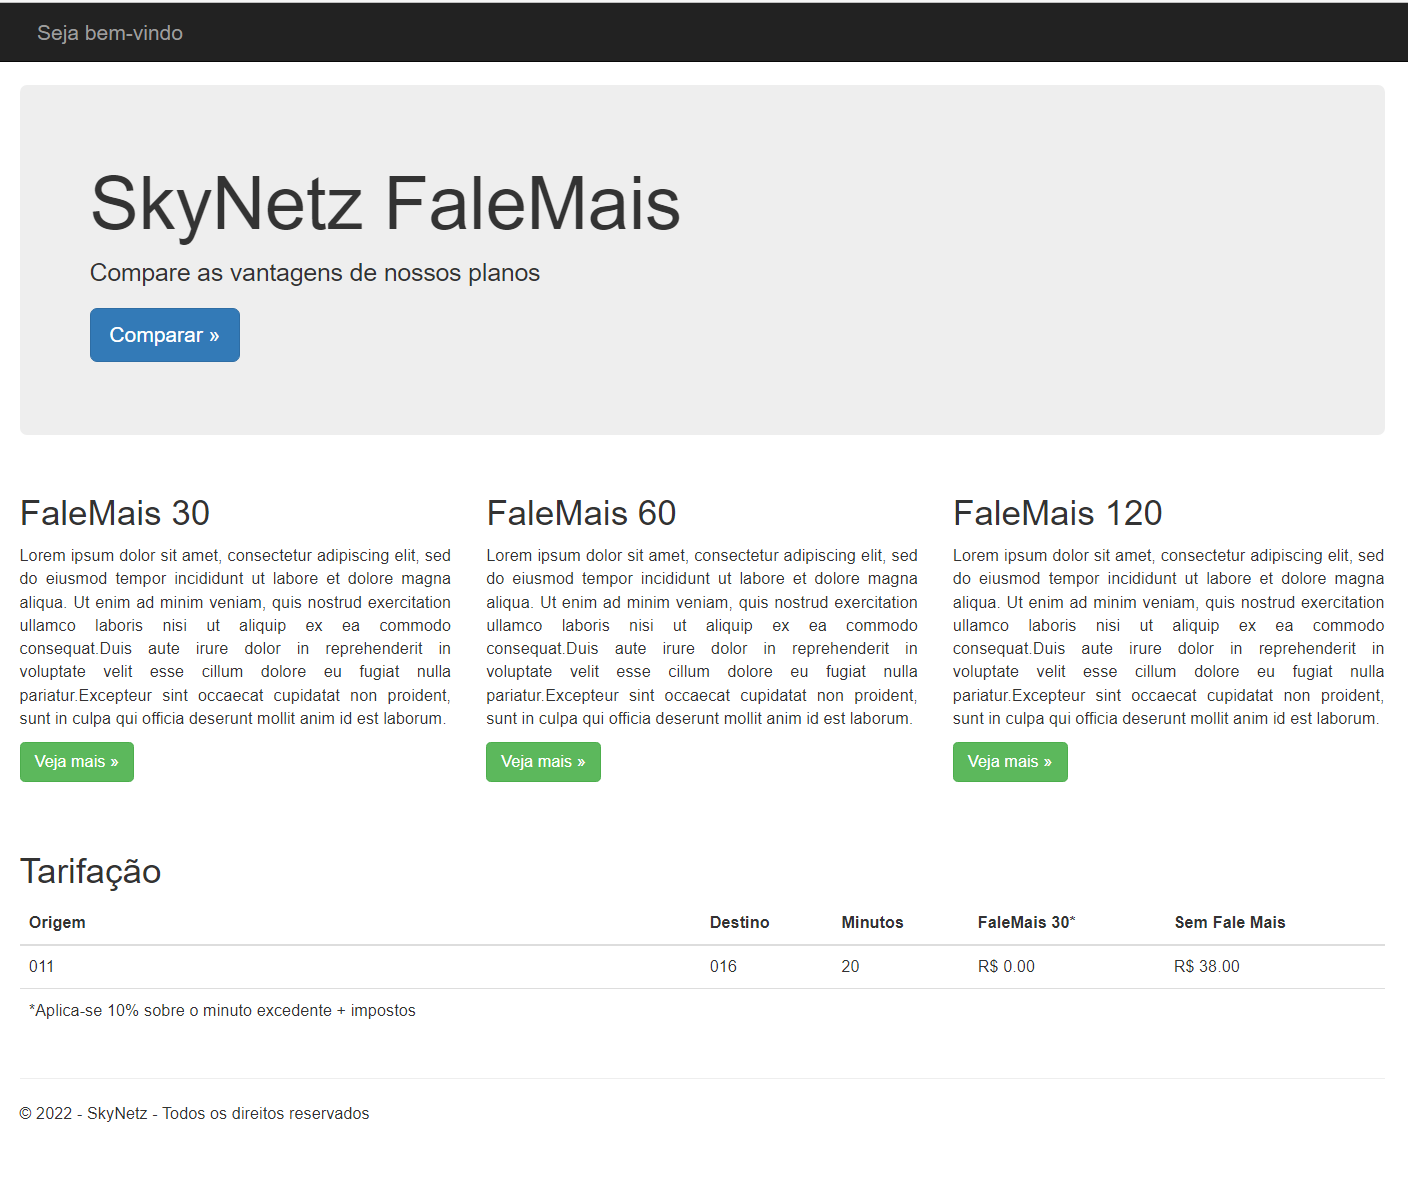
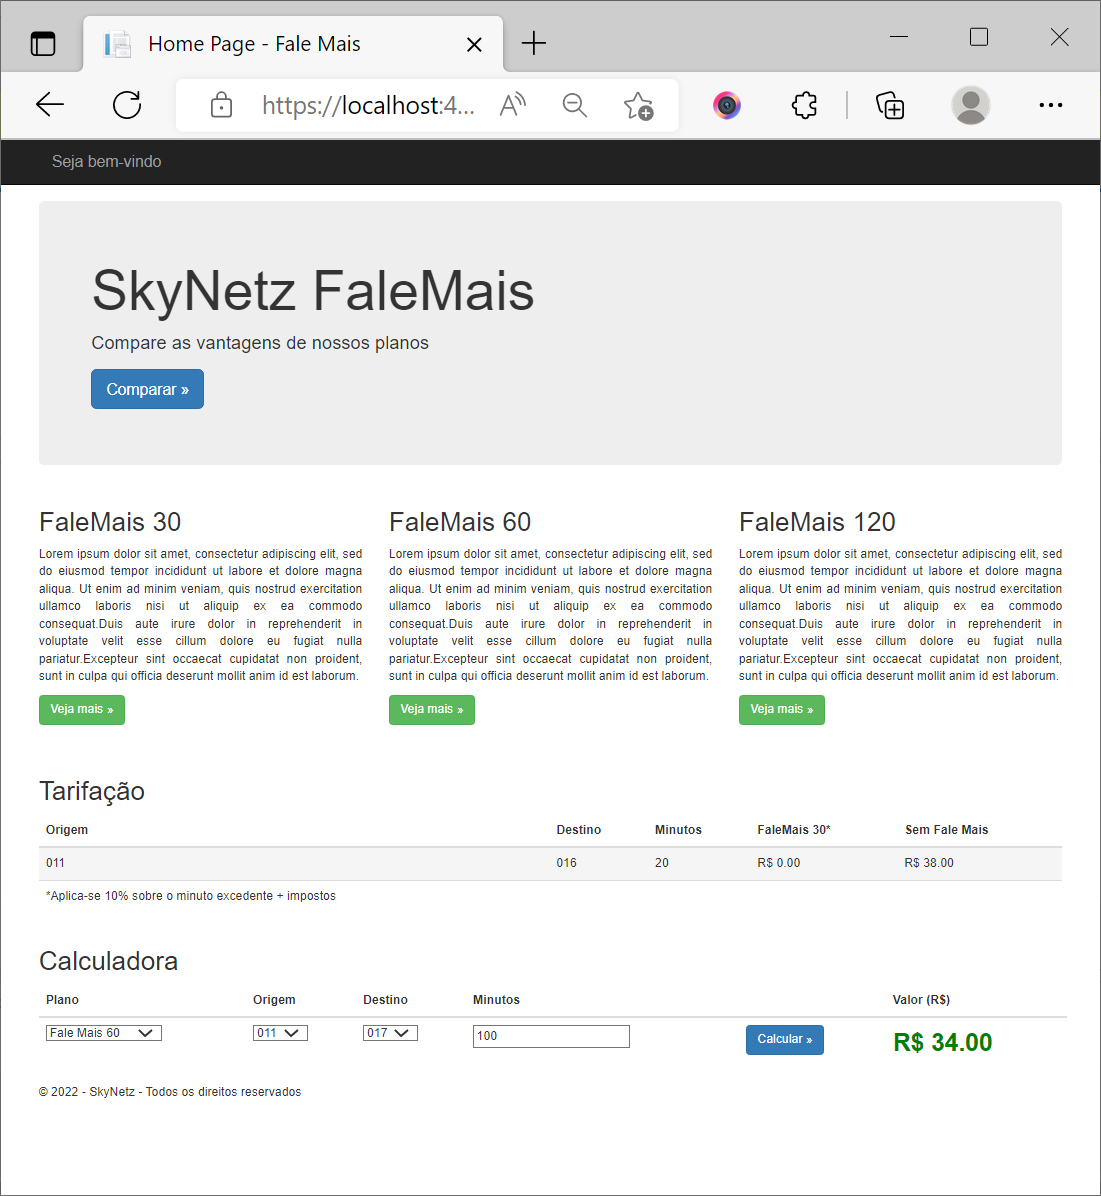
Calculadora

diff --git a/SkyNetz.FaleMais.API/Controllers/FaresController.cs b/SkyNetz.FaleMais.API/Controllers/FaresController.cs
@@ -10,25 +10,51 @@ using System.Threading.Tasks;
 using System.Web.Http;
 using System.Web.Http.Cors;
 using System.Web.Http.Description;
+using Newtonsoft.Json.Linq;
 using SkyNetz.FaleMais.DataAccess;
 
 namespace SkyNetz.FaleMais.API.Controllers
 {
-    [EnableCors(origins: "*", headers: "*", methods: "*")]
     public class FaresController : Base
     {
         [HttpPost]
-        public async Task<IHttpActionResult> Get(int id)
+        [Route("api/fares/list")]
+        public async Task<IHttpActionResult> Get([FromBody]string id)
         {
-            Fares fares = await db.Fares.FindAsync(id);
-            if (fares == null)
+            int planId = int.Parse(id);
+            Fares fare = await db.Fares.Where(f => f.PlanId == planId).FirstOrDefaultAsync();
+            if (fare == null)
             {
                 return NotFound();
             }
 
-            return Json(fares);
+            return Json(fare);
         }
 
+        [HttpPost]
+        [Route("api/fares/calc")]
+        public IHttpActionResult Calc([FromBody]string data)
+        {
+            var ayParams = data.Split('|');
+            var planId = int.Parse(ayParams[0].ToString());
+            var origin = int.Parse(ayParams[1].ToString());
+            var destination = int.Parse(ayParams[2].ToString());
+            var minutes = int.Parse(ayParams[3].ToString());
+            Fares fare = db.Fares.ToList().Where(f => f.PlanId == planId && f.Origin == origin && f.Destination == destination).FirstOrDefault();
+            var timebase = 0;
+
+            if (minutes > fare.Time)
+                timebase = minutes - fare.Time;
+
+            var total = timebase * fare.UnitValue;
+
+            if (fare == null)
+            {
+                return NotFound();
+            }
+
+            return Json(total);
+        }
 
         protected override void Dispose(bool disposing)
         {

diff --git a/SkyNetz.FaleMais.API/App_Start/WebApiConfig.cs b/SkyNetz.FaleMais.API/App_Start/WebApiConfig.cs
@@ -2,6 +2,7 @@
 using System.Collections.Generic;
 using System.Linq;
 using System.Web.Http;
+using System.Web.Http.Cors;
 
 namespace SkyNetz.FaleMais.API
 {
@@ -12,7 +13,9 @@ namespace SkyNetz.FaleMais.API
             // Web API configuration and services
 
             // Web API routes
-            config.EnableCors();
+            var cors = new EnableCorsAttribute("*", "*", "*");
+            config.EnableCors(cors);
+
             config.MapHttpAttributeRoutes();
             config.Formatters.JsonFormatter.SerializerSettings.ReferenceLoopHandling = Newtonsoft.Json.ReferenceLoopHandling.Ignore;
             config.Routes.MapHttpRoute(

diff --git a/SkyNetz.FaleMais.DataAccess/Customers.cs b/SkyNetz.FaleMais.DataAccess/Customers.cs
@@ -25,6 +25,7 @@ namespace SkyNetz.FaleMais.DataAccess
         public string MiddleName { get; set; }
         public string LastName { get; set; }
         public string EMail { get; set; }
+        public int PlanId { get; set; }
     
         [System.Diagnostics.CodeAnalysis.SuppressMessage("Microsoft.Usage", "CA2227:CollectionPropertiesShouldBeReadOnly")]
         public virtual ICollection<Authorization> Authorization { get; set; }

diff --git a/SkyNetz.FaleMais.DataAccess/Authorization.cs b/SkyNetz.FaleMais.DataAccess/Authorization.cs
@@ -15,6 +15,7 @@ namespace SkyNetz.FaleMais.DataAccess
     public partial class Authorization
     {
         public int Id { get; set; }
+        public int CustomerId { get; set; }
         public System.DateTime LastLogin { get; set; }
         public System.DateTime Expires { get; set; }
         public System.Guid SystemId { get; set; }

diff --git a/SkyNetz.FaleMais.DataAccess/Fares.cs b/SkyNetz.FaleMais.DataAccess/Fares.cs
@@ -22,6 +22,7 @@ namespace SkyNetz.FaleMais.DataAccess
         public decimal StarterValue { get; set; }
         public decimal DiscountedValue { get; set; }
         public decimal FullValue { get; set; }
+        public decimal UnitValue { get; set; }
     
         public virtual Plans Plans { get; set; }
     }

diff --git a/SkyNetz.FaleMais.API/Controllers/CustomersController.cs b/SkyNetz.FaleMais.API/Controllers/CustomersController.cs
@@ -14,7 +14,6 @@ using SkyNetz.FaleMais.DataAccess;
 
 namespace SkyNetz.FaleMais.API.Controllers
 {
-    [EnableCors(origins: "*", headers: "*", methods: "*")]
     public class CustomersController : ApiController
     {
         private FaleMaisContext db = new FaleMaisContext();

diff --git a/SkyNetz.FaleMais.API/Controllers/AuthorizationsController.cs b/SkyNetz.FaleMais.API/Controllers/AuthorizationsController.cs
@@ -15,7 +15,6 @@ using Authorization = SkyNetz.FaleMais.DataAccess.Authorization;
 
 namespace SkyNetz.FaleMais.API.Controllers
 {
-    [EnableCors(origins: "*", headers: "*", methods: "*")]
     public class AuthorizationsController : Base
     {
 

diff --git a/SkyNetz.FaleMais.API/Controllers/PlansController.cs b/SkyNetz.FaleMais.API/Controllers/PlansController.cs
@@ -14,7 +14,6 @@ using SkyNetz.FaleMais.DataAccess;
 
 namespace SkyNetz.FaleMais.API.Controllers
 {
-    [EnableCors(origins: "*", headers: "*", methods: "*")]
     public class PlansController : Base
     {
         [HttpPost]
